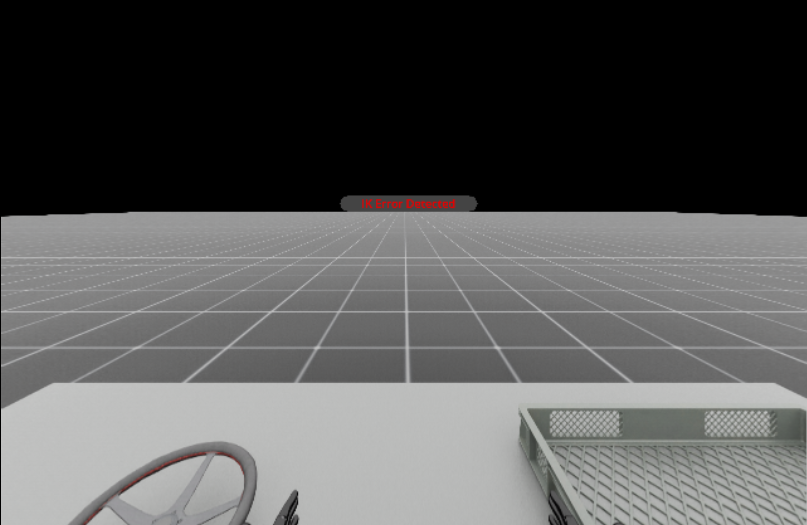
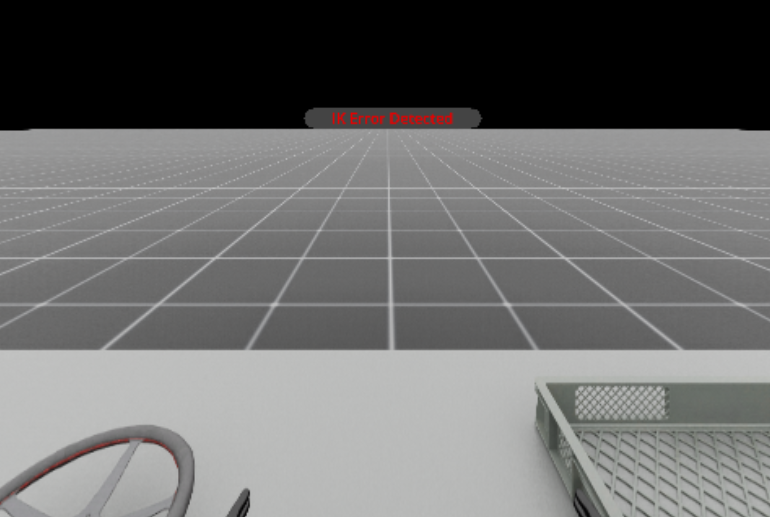
Adjust doc image. Add changelog.

diff --git a/source/isaaclab/docs/CHANGELOG.rst b/source/isaaclab/docs/CHANGELOG.rst
@@ -1,6 +1,15 @@
 Changelog
 ---------
 
+0.45.14 (2025-09-08)
+~~~~~~~~~~~~~~~~~~~~
+
+Added
+^^^^^
+
+* * Added :class:`~isaaclab.ui.xr_widgets.TeleopVisualizationManager` and :class:`~isaaclab.ui.xr_widgets.XRVisualization`
+  classes to provide real-time visualization of teleoperation and inverse kinematics status in XR environments.
+
 0.45.13 (2025-09-08)
 ~~~~~~~~~~~~~~~~~~~~
 

diff --git a/docs/source/how-to/cloudxr_teleoperation.rst b/docs/source/how-to/cloudxr_teleoperation.rst
@@ -389,7 +389,7 @@ Back on your Apple Vision Pro:
 
       .. figure:: ../_static/setup/cloudxr_avp_ik_error.jpg
          :align: center
-         :figwidth: 50%
+         :figwidth: 80%
          :alt: IK Error Message Display in XR Device
 
 
